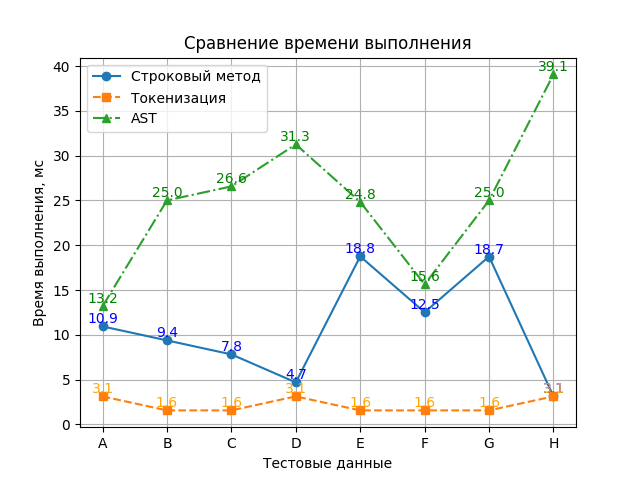
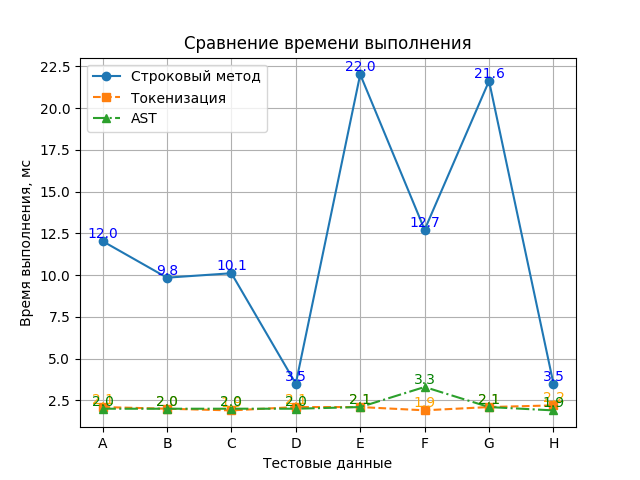
FINAL - предзащита - ast REWORK

diff --git a/algorithms/ast_find.py b/algorithms/ast_find.py
@@ -1,6 +1,39 @@
 import ast
-import difflib
 import os
+
+
+class ASTComparator(ast.NodeVisitor):
+    def __init__(self, tree1, tree2):
+        self.tree1 = tree1
+        self.tree2 = tree2
+        self.mismatches = 0
+        self.total = 0
+
+    def compare(self):
+        self.visit(self.tree1, self.tree2)
+        return self.mismatches == 0
+
+    def visit(self, node1, node2=None):
+        self.total += 1
+        if node2 is None:
+            node2 = self.tree2
+        if type(node1) != type(node2):
+            self.mismatches += 1
+        else:
+            for field in node1._fields:
+                value1 = getattr(node1, field)
+                value2 = getattr(node2, field)
+                if isinstance(value1, list) and isinstance(value2, list):
+                    for item1, item2 in zip(value1, value2):
+                        self.visit(item1, item2)
+                elif isinstance(value1, ast.AST) and isinstance(value2, ast.AST):
+                    self.visit(value1, value2)
+                elif isinstance(value1, (str, int, float)) and isinstance(value2, (str, int, float)):
+                    continue
+                else:
+                    if value1 != value2:
+                        self.mismatches += 1
+
 
 def get_ast_from_file(file_path, encoding="utf-8"):
     """Получает AST из файла."""
@@ -8,22 +41,17 @@ def get_ast_from_file(file_path, encoding="utf-8"):
         code = file.read()
     return ast.parse(code)
 
-def compare_ast(ast1, ast2):
-    """Сравнивает два AST и возвращает коэффициент схожести."""
-    ast1_str = ast.dump(ast1)
-    ast2_str = ast.dump(ast2)
-
-    matcher = difflib.SequenceMatcher(None, ast1_str, ast2_str)
-    similarity_ratio = matcher.ratio()
-
-    return similarity_ratio
 
 def calculate_plagiarism_percentage(target_filename, origin_filename):
     """Вычисляет процент заимствования между двумя файлами."""
     target_ast = get_ast_from_file(target_filename)
     origin_ast = get_ast_from_file(origin_filename)
-    similarity_ratio = compare_ast(origin_ast, target_ast)
+
+    comparator = ASTComparator(target_ast, origin_ast)
+    is_similar = comparator.compare()
+    similarity_ratio = 1 - comparator.mismatches / comparator.total
     return similarity_ratio * 100
+
 
 if __name__ == "__main__":
     # Частное тестирование алгоритма

diff --git a/algorithms/experiment.py b/algorithms/experiment.py
@@ -148,5 +148,35 @@ def main():
     plot_results('time', 'Сравнение времени выполнения', 'Время выполнения, мс')
     plot_results('percentage', 'Сравнение процентного заимствования', 'Процент заимствования, %')
 
+    # Вывод средних значений по времени и проценту заимствований
+    print_average_results()
+
+def print_average_results():
+    """
+    Выводит средние значения по времени выполнения и проценту заимствований для каждого метода.
+    """
+    time_files = {
+        'Строковый метод': 'greedy_time.csv',
+        'Токенизация': 'heckel_time.csv',
+        'AST': 'ast_time.csv'
+    }
+    percentage_files = {
+        'Строковый метод': 'greedy_percentage.csv',
+        'Токенизация': 'heckel_percentage.csv',
+        'AST': 'ast_percentage.csv'
+    }
+
+    for method, filename in time_files.items():
+        with open(os.path.join(results_dir, filename)) as file:
+            times = [float(line.strip()) for line in file]
+            avg_time = sum(times) / len(times)
+            print(f"Среднее время выполнения для {method}: {avg_time:.2f} мс")
+
+    for method, filename in percentage_files.items():
+        with open(os.path.join(results_dir, filename)) as file:
+            percentages = [float(line.strip()) for line in file]
+            avg_percentage = sum(percentages) / len(percentages)
+            print(f"Средний процент заимствований для {method}: {avg_percentage:.2f} %")
+
 if __name__ == '__main__':
     main()

diff --git a/algorithms/heckel.py b/algorithms/heckel.py
@@ -200,4 +200,3 @@ if __name__ == "__main__":
 
     plagiarism_percentage = search_heckel(target_filename=file2_path, origin_filename=file1_path)
     print("Процент заимствований между файлами:", plagiarism_percentage, "%")
-
